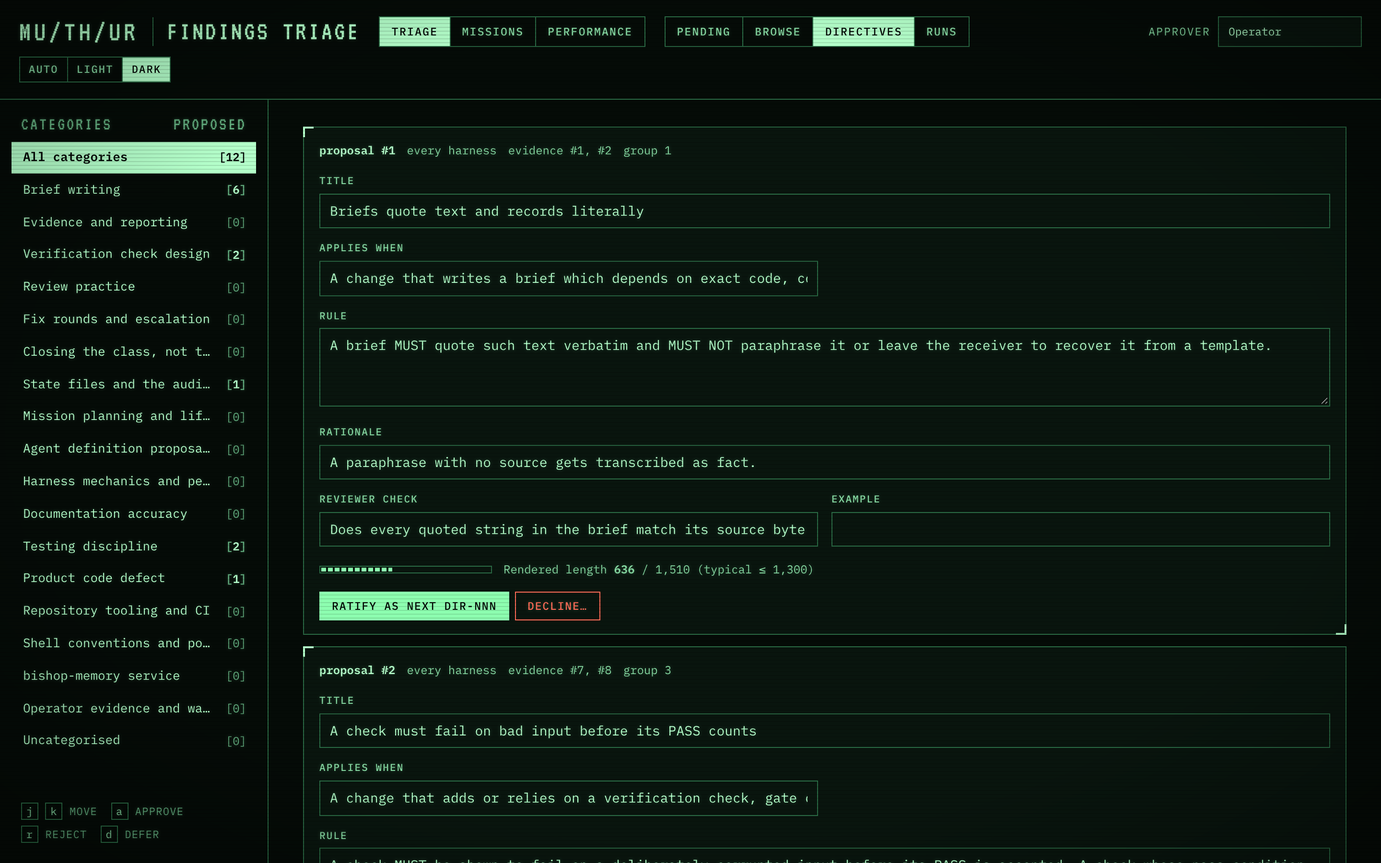
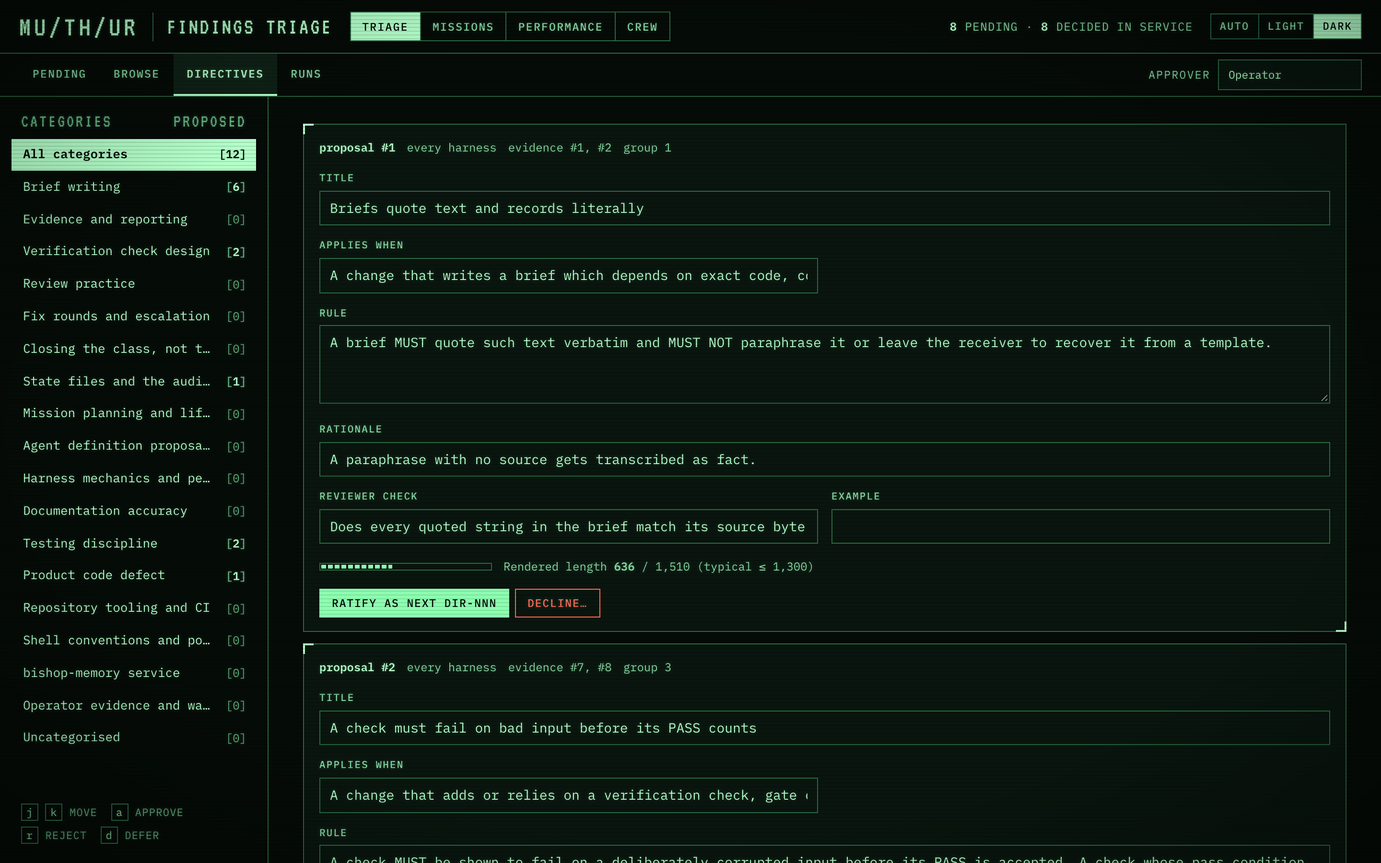
Docs and screenshots after the N/A grade deploy (#14)
Docs, screenshots and the seeder after the operator's N/A grade went live on 2026-10-23. Five commits on top of `main` (`41aa27e`), all reviewed and approved.

## What changed

- **Screenshots refreshed with an N/A demo mission.** `docs/wiki/images/missions-na-light.png` is new: a set-aside mission on the HUD, showing its N/A row, the Now block and the Grade section. The HUD and Performance captures are regenerated to match.
- **capture.js targets sections by heading or tab.** A shot finds its section by heading (and selects the tab first where one is named), not by position. Each shot asserts that its target is visible below the sticky bars, and fails otherwise.
- **Performance N/A badge track widened from 24px to 36px** in `internal/ui/performance.html` (both the desktop grid and the 1100px breakpoint). UI mutants 18/0.
- **Seed-demo exclusion guards.** `scripts/screenshots/seed-demo.py` sets demo missions named under `grades.excluded` aside through the operator's exclusion route, after the grade run. It stops with a message when a key names no demo mission, when the answer is not state `excluded`, or when a call returns non-2xx.
- **Docs brought to the deployed state.** PROGRESS, ROADMAP, the three plan files and the CHANGELOG now record the N/A grade as merged (`41aa27e`) and deployed on 2026-10-23 with `scripts/install-daemon.sh`, with the live schema checked after restart. The override line stays open.
[…]

diff --git a/scripts/screenshots/capture.js b/scripts/screenshots/capture.js
@@ -1,4 +1,4 @@
-// scripts/screenshots/capture.js — capture the review page and the mission HUD for the docs.
+// scripts/screenshots/capture.js — capture the review page, the mission HUD and the performance page for the docs.
 //
 // Usage: node capture.js <base-url> <output-dir>
 //
@@ -31,9 +31,12 @@ const SHOTS = [
   { name: 'missions-light', theme: 'light', viewport: DESKTOP, mission: 'Retry transient provider errors' },
   { name: 'missions-dark', theme: 'dark', viewport: DESKTOP, mission: 'Retry transient provider errors' },
   { name: 'missions-steps-light', theme: 'light', viewport: DESKTOP, mission: 'Retry transient provider errors',
-    after: async (page) => { await scrollToSection(page, 2); } },
+    after: async (page) => { await showMissionSection(page, { tab: 'steps', heading: 'Steps', must: '.steps' }); } },
   { name: 'missions-phone-light', theme: 'light', viewport: PHONE, mission: 'Retry transient provider errors',
-    after: async (page) => { await scrollToSection(page, -1); } },
+    after: async (page) => { await showMissionHead(page); } },
+  // The set-aside mission from demo.json: its Grade section carries the large N/A badge.
+  { name: 'missions-na-light', theme: 'light', viewport: DESKTOP, mission: 'Dry run of the release checklist',
+    after: async (page) => { await showMissionSection(page, { heading: 'Grade', must: '.verdict', text: 'N/A' }); } },
   { name: 'performance-light', theme: 'light', viewport: DESKTOP, page: '/performance' },
   { name: 'performance-dark', theme: 'dark', viewport: DESKTOP, page: '/performance' },
   { name: 'phone-light', theme: 'light', viewport: PHONE, tab: 'pending',
@@ -48,14 +51,60 @@ const SHOTS = [
     } },
 ];
 
-// Scrolls the mission view so section i (-1: the mission header) sits just
-// below the sticky header.
-async function scrollToSection(page, i) {
-  await page.evaluate(i => {
-    const el = i < 0 ? document.querySelector('#view') : document.querySelectorAll('#view section.sec')[i];
-    const header = document.querySelector('header.top').offsetHeight;
-    window.scrollTo(0, el.getBoundingClientRect().top + window.scrollY - header - 12);
-  }, i);
+// The lowest edge, in CSS pixels, of the bars that stick to the top of the
+// viewport: the header, and the mission tab bar where it is sticky (on a phone
+// it is static and is not counted). A heading must sit below this edge to be
+// readable in a shot.
+async function stickyCover(page) {
+  return page.evaluate(() => {
+    const bars = [...document.querySelectorAll('header.top, #mtabs')]
+      .filter(el => getComputedStyle(el).position === 'sticky' && el.getClientRects().length > 0);
+    return Math.max(0, ...bars.map(el => parseFloat(getComputedStyle(el).top) + el.offsetHeight));
+  });
+}
+
+// Makes a mission tab current, when one is given, then scrolls the mission view
+// so the heading of the section named by `heading` sits just below the sticky
+// bars. The section is found by its heading, never by its position: the panes
+// hide the sections of other tabs, so a position can name a hidden one. The shot
+// fails unless the section is visible, its heading and its `must` element are on
+// screen below the sticky bars, and, when `text` is given, the section contains it.
+async function showMissionSection(page, { tab, heading, must, text }) {
+  if (tab) {
+    await page.click(`#mtabs button[data-mt="${tab}"]`);
+    await page.waitForTimeout(300);
+  }
+  const covered = await stickyCover(page);
+  await page.evaluate(({ heading, must, text, covered }) => {
+    const sec = [...document.querySelectorAll('#view section.sec')]
+      .find(s => (s.querySelector('h3')?.childNodes[0]?.textContent || '').trim() === heading);
+    if (!sec || sec.hidden || sec.getClientRects().length === 0) throw new Error(`no visible "${heading}" section`);
+    const h3 = sec.querySelector('h3');
+    window.scrollTo(0, h3.getBoundingClientRect().top + window.scrollY - covered - 12);
+    const below = el => {
+      const r = el.getBoundingClientRect();
+      return r.height > 0 && r.top >= covered && r.top < window.innerHeight;
+    };
+    if (!below(h3)) throw new Error(`the "${heading}" heading is clipped by the sticky bars or is off screen`);
+    const target = must ? sec.querySelector(must) : null;
+    if (must && (!target || !below(target))) throw new Error(`"${heading}" ${must} is not on screen below the sticky bars`);
+    if (text && !sec.innerText.includes(text)) throw new Error(`the "${heading}" section does not contain "${text}"`);
+  }, { heading, must, text, covered });
+  await page.waitForTimeout(300);
+}
+
+// Scrolls the mission view so its head (.head, inside #view) sits just below the
+// sticky bars. Fails unless the head is on screen there afterwards.
+async function showMissionHead(page) {
+  const covered = await stickyCover(page);
+  await page.evaluate(covered => {
+    const view = document.querySelector('#view');
+    const head = view.querySelector('.head');
+    if (!head || head.getClientRects().length === 0) throw new Error('no visible mission head');
+    window.scrollTo(0, view.getBoundingClientRect().top + window.scrollY - covered - 12);
+    const r = head.getBoundingClientRect();
+    if (r.bottom <= covered || r.top >= window.innerHeight) throw new Error('the mission head is not on screen below the sticky bars');
+  }, covered);
   await page.waitForTimeout(300);
 }
 

diff --git a/internal/ui/performance.html b/internal/ui/performance.html
@@ -328,12 +328,12 @@
   .recent .grade.gD { background:var(--warn) } .recent .grade.gE { background:color-mix(in srgb, var(--bad) 55%, var(--panel)); color:var(--fg) } .recent .grade.gF { background:var(--bad) }
   .recent a:hover .grade { outline:1px solid var(--fg); outline-offset:1px }
   .toolbar { margin-bottom:8px }
-  .grow { grid-template-columns:24px 170px 120px 92px minmax(0,1fr); gap:2px 14px; padding:7px 14px; align-items:baseline }
+  .grow { grid-template-columns:36px 170px 120px 92px minmax(0,1fr); gap:2px 14px; padding:7px 14px; align-items:baseline }
   .grow .gm { display:contents } .grow .gm .t { display:none } .grow .gm .m { display:contents; font-size:11.5px; color:var(--muted) }
   .grow .gm .m span { font-size:11.5px; color:var(--muted); white-space:nowrap; overflow:hidden; text-overflow:ellipsis }
   .grow .gs { grid-column:5; grid-row:1 } .grow .gs p { font-size:12.5px; line-height:1.5 } .grow .gs p.clamp { -webkit-line-clamp:1 }
   .grow .acts { margin-top:0 } .grow .acts button { padding:2px 0 }
-  @media (max-width: 1100px) { .bhead { display:none } .brow { grid-template-columns:36px minmax(0,1fr) auto; grid-template-areas:"g n t" "g r r" } .grow { grid-template-columns:24px minmax(0,1fr) } .grow .gm { display:block } .grow .gm .m { display:flex; gap:10px } .grow .gs { grid-column:2; grid-row:auto } }
+  @media (max-width: 1100px) { .bhead { display:none } .brow { grid-template-columns:36px minmax(0,1fr) auto; grid-template-areas:"g n t" "g r r" } .grow { grid-template-columns:36px minmax(0,1fr) } .grow .gm { display:block } .grow .gm .m { display:flex; gap:10px } .grow .gs { grid-column:2; grid-row:auto } }
   .sec > h3 .hid { font:500 11px/1 var(--mono); letter-spacing:.08em; color:var(--warn); border:1px solid currentColor; padding:3px 6px }
   .sec > h3 .gear { order:3; font:500 11px/1 var(--mono); letter-spacing:.1em; text-transform:uppercase; color:var(--muted); background:none; border:1px solid var(--line2); padding:6px 9px; cursor:pointer; text-shadow:inherit }
   .sec > h3 .gear:hover { color:var(--fg); border-color:var(--fg) }

diff --git a/scripts/screenshots/seed-demo.py b/scripts/screenshots/seed-demo.py
@@ -18,6 +18,10 @@ something to show. --db, the throwaway database file, lets the seeder
 backdate the missions and their journal to the dates in demo.json; the API
 stamps both with the current time.
 
+Grades go through the grader's claim and write routes. A demo mission named
+under grades.excluded is then set aside as N/A through the operator's
+exclusion route, so the HUD and the performance page show that state too.
+
 Refuses to seed a database that already holds findings: this is for a
 throwaway instance only (scripts/screenshots/run.sh starts one).
 
@@ -204,6 +208,25 @@ def seed_grades(url, demo, db_path):
     return written
 
 
+def seed_exclusions(url, demo):
+    """Set the demo missions named under grades.excluded aside as N/A, through the
+    operator's exclusion route. Runs after seed_grades, so the grade run never
+    claims these missions. A key that names no demo mission, or an answer other
+    than state 'excluded', stops the run with a message (tc.die). A non-2xx
+    answer stops it too, inside call(). Returns how many exclusions succeeded."""
+    spec = (demo.get("grades") or {}).get("excluded", {})
+    ids = demo.get("_mission_ids", {})
+    set_aside = 0
+    for key, note in spec.items():
+        if key not in ids:
+            tc.die(f"[seed-demo] grades.excluded names '{key}', which is not the key of a demo mission in missions")
+        answer = call(url, "PUT", f"/v1/mission-grades/{ids[key]}/exclusion", {"note": note})
+        if answer.get("state") != "excluded":
+            tc.die(f"[seed-demo] excluding '{key}' answered {answer!r}, not state excluded")
+        set_aside += 1
+    return set_aside
+
+
 def main():
     parser = argparse.ArgumentParser(description=__doc__, formatter_class=argparse.RawDescriptionHelpFormatter)
     parser.add_argument("--url", required=True)
@@ -290,12 +313,14 @@ def main():
              {"state": "accepted", "decided_by": approver})
 
     graded = seed_grades(url, demo, args.db) if args.memory_root else 0
+    set_aside = seed_exclusions(url, demo) if args.memory_root else 0
 
     pending = call(url, "GET", "/v1/triage/pending")
     missions = len(demo.get("missions", [])) if args.memory_root else 0
     print(f"[seed-demo] {missions} missions, {len(ids)} findings, {len(demo['runs'])} runs, "
           f"{pending['pending_findings']} pending recommendations, "
-          f"{len(pending['directive_proposals'])} pending directive drafts, {graded} mission grades")
+          f"{len(pending['directive_proposals'])} pending directive drafts, {graded} mission grades, "
+          f"{set_aside} set aside")
 
 
 if __name__ == "__main__":

diff --git a/README.md b/README.md
@@ -134,10 +134,10 @@ Every finished mission gets a grade from A to F, a short summary of why and sugg
 
 <picture>
   <source media="(prefers-color-scheme: dark)" srcset="docs/wiki/images/missions-dark.png">
-  <img alt="The mission HUD: the mission list with search and filters on the left, and on the right a completed mission with its status, tiles for steps, duration, findings and criteria, and its brief." src="docs/wiki/images/missions-light.png">
+  <img alt="The mission HUD: the mission list on the left, and on the right a completed mission with its status, tiles for steps, duration, findings, criteria, patterns and directives, and its Now block; the Grade heading shows at the foot of the view." src="docs/wiki/images/missions-light.png">
 </picture>
 
-`http://127.0.0.1:8787/missions`, beside `/triage` (and where `/` redirects), shows one mission at a time: the brief with its acceptance criteria ticked from the debrief, a step timeline with each agent's crew role, timing and summary, the linked findings with their triage state, the debrief, and the patterns, directives, crew, service records and journal entries that belong to it. A switch in each page's header links the four pages (Triage, Missions, Performance and Crew), and each finding links across to the other. `/crew` shows per-agent metrics across all missions; see [Mission HUD Guide](docs/wiki/Mission-HUD-Guide.md#the-crew-page).
+`http://127.0.0.1:8787/missions`, beside `/triage` (and where `/` redirects), shows one mission at a time: the brief with its acceptance criteria ticked from the debrief, a step timeline with each agent's crew role, timing and summary, the linked findings with their triage state, the debrief, and the patterns, directives, crew, service records and journal entries that belong to it. A switch in each page's header links to the other pages, and each finding links across to the other. `/crew` shows per-agent metrics across all missions; see [Mission HUD Guide](docs/wiki/Mission-HUD-Guide.md#the-crew-page).
 
 ```bash
 curl -X POST http://127.0.0.1:8787/v1/documents/sync   # import every registered harness's memory tree and agents
@@ -175,7 +175,7 @@ Environment variables, with optional `.env` in the working directory (gitignored
 ## Network and security model
 
 - **Loopback, no keys: open.** The default single-machine install binds `127.0.0.1` and asks for nothing, exactly as before.
-- **API keys.** `memoryd keys add <name>` creates a named key and prints it once; the keys file holds only SHA-256 hashes and is re-read on change, so adding or revoking needs no restart. Once any key exists, every `/v1` route needs one (`Authorization: Bearer <key>` or `X-API-Key`); `/healthz`, the two pages and their icons stay open because they hold no data. The access log names the key behind each request.
+- **API keys.** `memoryd keys add <name>` creates a named key and prints it once; the keys file holds only SHA-256 hashes and is re-read on change, so adding or revoking needs no restart. Once any key exists, every `/v1` route needs one (`Authorization: Bearer <key>` or `X-API-Key`); `/healthz`, the pages and their icons stay open because they hold no data. The access log names the key behind each request.
 - **Required off loopback.** On any other address memoryd refuses to start without a key (unless `BISHOP_ALLOW_NO_AUTH=1`), and revoking the last key refuses every request rather than opening the service.
 - **Transport.** A key over plain HTTP can be read on the wire. On your own network, use built-in TLS with a certificate from your own mkcert CA, which clients trust through `BISHOP_MEMORY_CA_FILE` in `client.env` ([Home Server Setup](docs/wiki/Home-Server-Setup.md)). Alternatives: Tailscale or WireGuard, built-in TLS (`TLS_CERT_FILE`, `TLS_KEY_FILE`), a reverse proxy such as Caddy in front of a loopback-bound memoryd (create a key first: on loopback with none it is open), or an SSH tunnel. memoryd warns at start when it serves plain HTTP on a network address.
 - **Every key has full access.** There are no roles and no rate limiting. What agents can do is still limited by the `mcpd` tool lists (see [MCP tools](#mcp-tools)). `POST /v1/documents/sync` reads any server path a caller names (except `/`), so a key can also pull Markdown and JSONL from any directory the service user can read into search.
@@ -200,7 +200,7 @@ CI (`.github/workflows/ci.yml`) runs build, vet, gofmt, test and test -race on L
 cmd/memoryd         HTTP daemon          internal/api        handlers and router
 cmd/mcpd            MCP adapter          internal/store      SQLite, schema, migrations
 db/schema.sql       schema               internal/importer   Markdown → FTS5
-db/finding-categories.json  taxonomy     internal/ui         the four pages: /triage, /missions, /performance, /crew
+db/finding-categories.json  taxonomy     internal/ui         the pages: /triage, /missions, /performance, /crew
 scripts/            installers, reconciler, triage, wiki     .claude/agents, .claude/skills   the triage agents
                                                              .opencode/agents                 their OpenCode twins
 docs/               roadmap, progress, plans   docs/wiki/    user and developer pages (published to the wiki)

diff --git a/docs/wiki/Mission-Grading.md b/docs/wiki/Mission-Grading.md
@@ -4,7 +4,7 @@ Every finished mission gets a grade from **A** to **F**, a short summary of why,
 
 Grading is the third triage job, after classify and process. It runs nightly at 21:40 and can be run by hand. It works from the database alone: the mission's brief, debrief, steps, findings and agent notes as bishop-memory already holds them. It reads no files and makes no changes to a harness.
 
-![Harness performance, light theme](images/performance-light.png)
+![Harness performance, light theme: the average grade, the set-aside tile counting one N/A, and the demo harness card with its N/A count](images/performance-light.png)
 
 ## What the grades mean
 
@@ -27,7 +27,7 @@ A mission whose record is too thin to judge (no debrief and no steps) gets **not
 
 **Mission HUD.** Each graded mission shows its letter in the mission list and in its header, and a **Grade** section under the tiles: the letter, **Why** (the summary), **Suggestions**, and the counts the grade rests on. A mission the operator has set aside shows **N/A** in place of a letter: in the list its note is the tooltip, and in the Grade section the note is under **Why**. The list has a grade filter, including **Ungraded** and **N/A**.
 
-![A mission's grade on the HUD, dark theme](images/missions-dark.png)
+![The mission HUD in the dark theme, with the Grade heading at the foot of the view](images/missions-dark.png)
 
 **Performance page** (`/performance`, the third link in the page switch):
 
@@ -72,6 +72,8 @@ A run with nothing waiting exits at once without starting an agent. Each run mak
 - An excluded (N/A) mission is never claimed. A run that names one skips it with a log line and leaves it alone; `DELETE /v1/mission-grades/<id>` answers 409 for it. Lift the exclusion first, and the nightly grader can claim the mission again.
 
 ## Setting a mission aside (N/A)
+
+![The mission HUD with a set-aside mission selected: its list row carries N/A, the Now block sits above the Grade section, and the Grade section shows a large N/A badge with the note under Why](images/missions-na-light.png)
 
 Only the operator sets this. No MCP tool reaches these routes. Both are on the HTTP API under `/v1/mission-grades/:missionID/exclusion`; the operator's side of the service is in [Developer: HTTP API](Developer-HTTP-API#mission-grades-operator-na).
 
@@ -121,7 +123,7 @@ bin/memoryd backup data/memory-before-na.db
 sqlite3 data/memory-before-na.db ".tables"
 ```
 
-Run `bin/memoryd backup` from the checkout, as above. `DB_PATH` is relative, so a run from any other directory (for example, with the full path to the binary) opens and creates an empty `data/memory.db` there, because `store.Open` creates the database file on open (`internal/store/sqlite.go:39-43`). The backup is then empty and the stray file must be removed. The `.tables` check catches the empty copy; do not restart on it.
+Run `bin/memoryd backup` from the checkout, as above. `DB_PATH` is relative, so a run from any other directory (for example, with the full path to the binary) opens and creates an empty `data/memory.db` there, because `store.Open` creates the database file on open: its `db.Ping` call forces the driver to create the file (`internal/store/sqlite.go:66-71`). The backup is then empty and the stray file must be removed. The `.tables` check catches the empty copy; do not restart on it.
 
 On Linux the database is in the service user's StateDirectory (`scripts/bishop-memory.service:68`), so run the backup as that user and keep the target inside that directory. The unit's own comment uses `sudo -u bishop-memory env DB_PATH=... <bin>/memoryd keys add` (`scripts/bishop-memory.service:73`), and `scripts/install.sh:176` runs the same pattern with `runuser -u`. `<install root>` is the directory the unit runs `bin/memoryd` from (`scripts/bishop-memory.service:54`):
 
@@ -134,7 +136,7 @@ sudo -u bishop-memory sqlite3 /var/lib/bishop-memory/memory-before-na.db ".table
 
 If the `.tables` line prints nothing, the copy is empty. Do not restart until it lists `mission_grades`.
 
-The migration runs only when the operator restarts memoryd, so nothing changes until then.
+The migration runs only when the operator restarts memoryd, so nothing changes until then. On a Mac, the redeploy is `scripts/install-daemon.sh`: it builds `bin/memoryd`, stages a copy into the exec directory that launchd runs (`scripts/install-daemon.sh:260-264`, `:277-282`), and replaces the launchd job with a bootout and a bootstrap (`scripts/install-daemon.sh:315-331`). The migration runs when that new process starts, in `cmd/memoryd/main.go:121`. Take the backup above first, so that a bad redeploy can be rolled back from it.
 
 ## Settings
 

diff --git a/docs/PROGRESS.md b/docs/PROGRESS.md
@@ -4,7 +4,7 @@ The follow-along tracker for [ROADMAP.md](ROADMAP.md). The roadmap says what is
 outstanding; this file shows the same work by workstream, one checkbox per
 item, with evidence for what is done and a link to the plan section.
 
-Last updated: 2026-10-22, on branch `feat/grade-excluded`, cut from `cbf229e`, with the operator N/A grade (PR #13). PR #12 (squash-merge `7fc76ba`, "Triage runner on OpenCode v2") is on `main`, and its items are in Triage & grading. Before it, against `fc38064`: harness portability phase 1 is on `main` through PR #8 (`8437f32`). The reconciler fixes are on `main` through PR #9 (`1c4def9`), and the `[flight-recorder]` summary fix and the journal cap exit code are on `main` through PR #11 (`2cada81`). The live memoryd was redeployed on 2026-10-21 at 06:35 UTC with the flight-recorder paging (operator-reported), and a full journal reconcile was run on it the same day. Live items the repository cannot confirm stay unticked. The operator N/A line under Memory insight is ticked on branch `feat/grade-excluded` (mission-20261022-05, PR #13); the override line stays open.
+Last updated: 2026-10-23, against `main` at `41aa27e`. The operator N/A grade is on `main` through PR #13 (squash-merge `41aa27e`, mission-20261022-05) and is deployed to the live service: on 2026-10-23 the live memoryd was redeployed with `scripts/install-daemon.sh` at the operator's request, and the `mission_grades` rebuild that admits `excluded` ran on that start; the live schema was checked after restart (it carries the `excluded` CHECK and `state <> 'excluded' OR grade IS NULL`) and /healthz returned ok (mission-20261022-05 follow-up). PR #12 (squash-merge `7fc76ba`, "Triage runner on OpenCode v2") is on `main`, and its items are in Triage & grading. Before it, against `fc38064`: harness portability phase 1 is on `main` through PR #8 (`8437f32`). The reconciler fixes are on `main` through PR #9 (`1c4def9`), and the `[flight-recorder]` summary fix and the journal cap exit code are on `main` through PR #11 (`2cada81`). The live memoryd was redeployed on 2026-10-21 at 06:35 UTC with the flight-recorder paging (operator-reported), and a full journal reconcile was run on it the same day. Live items the repository cannot confirm stay unticked. The operator N/A line under Memory insight is ticked, with its evidence on `main` (PR #13) and its deployment (deployed 2026-10-23 with `scripts/install-daemon.sh`; live schema checked after restart, mission-20261022-05 follow-up); the override line stays open.
 
 ## Summary
 
@@ -102,7 +102,7 @@ Plan: [plans/MEMORY-INSIGHT-PLAN.md](plans/MEMORY-INSIGHT-PLAN.md)
 - [ ] Phase 2: trends on `/performance` (partial: the grade trend shipped in `c83fdbf`; fix rounds and findings per week have not been built) ([§4](plans/MEMORY-INSIGHT-PLAN.md#4-phase-2--cross-mission-pages-and-operator-actions))
 - [ ] Phase 2: global search across missions, findings, patterns and directives ([§4](plans/MEMORY-INSIGHT-PLAN.md#4-phase-2--cross-mission-pages-and-operator-actions))
 - [ ] Phase 2: filters in the URL (unverified: not inspected) ([§4](plans/MEMORY-INSIGHT-PLAN.md#4-phase-2--cross-mission-pages-and-operator-actions))
-- [x] Phase 2: operator N/A (excluded) state for test missions that should not count, with its `PUT` and `DELETE` routes under `/v1/mission-grades/:missionID/exclusion`, the HUD and Performance labels, and the grader skip — PR #13 (mission-20261022-05) ([§4](plans/MEMORY-INSIGHT-PLAN.md#4-phase-2--cross-mission-pages-and-operator-actions))
+- [x] Phase 2: operator N/A (excluded) state for test missions that should not count, with its `PUT` and `DELETE` routes under `/v1/mission-grades/:missionID/exclusion`, the HUD and Performance labels, and the grader skip — PR #13, squash-merge `41aa27e` (mission-20261022-05); deployed 2026-10-23 with `scripts/install-daemon.sh` at the operator's request, with the `mission_grades` rebuild on that restart; live schema checked after restart (mission-20261022-05 follow-up) ([§4](plans/MEMORY-INSIGHT-PLAN.md#4-phase-2--cross-mission-pages-and-operator-actions))
 - [ ] Phase 2: operator agree or override of a grade, with a note, and the `mission_grades` operator columns (not started) ([§4](plans/MEMORY-INSIGHT-PLAN.md#4-phase-2--cross-mission-pages-and-operator-actions))
 - [ ] Phase 2: park or close a stale mission from the HUD (unverified: not inspected in the UI) ([§4](plans/MEMORY-INSIGHT-PLAN.md#4-phase-2--cross-mission-pages-and-operator-actions))
 - [ ] Phase 2: operator notes on a mission, `mission_notes` ([§4](plans/MEMORY-INSIGHT-PLAN.md#4-phase-2--cross-mission-pages-and-operator-actions))

diff --git a/docs/ROADMAP.md b/docs/ROADMAP.md
@@ -13,8 +13,10 @@ confirm before working on it), **unverified** (the repository cannot confirm
 it; a run or a harness-side check is needed), **accepted** (decided as it
 stands, with no fix planned).
 
-Last checked against the code: 2026-10-20 (status audit of `main` at
-`1c4def9` and the live database). Statuses changed on 2026-10-21 by the live
+Last checked against the code: 2026-10-23 (`main` at `41aa27e`, the N/A grade
+and its live deploy; statuses changed under Shipped and the follow-ups before
+Findings triage). The 2026-10-20 audit of `main` at `1c4def9` and the live
+database still holds for the items not named here. Statuses changed on 2026-10-21 by the live
 redeploy and by operator decisions; they are recorded under Reconciler,
 Harness portability and Shipped. Statuses changed on 2026-10-22 through PR #12
 (squash-merge `7fc76ba`, the OpenCode v2 triage runner); they are recorded under
@@ -82,6 +84,20 @@ from [plan §8](plans/MISSION-HUD-PLAN.md#8-outstanding):
   the live database; the running memoryd process (the binary's sha1 matches
   `b15baa93`; the process has not been inspected); and the closure of triage
   run 89 on the live database. Status: unverified.
+
+**Follow-ups from the N/A grade and its review (mission-20261022-05, 2026-10-23).**
+Each is a one-line item; the detail is in the mission DEBRIEF and FINDINGS
+(2026-10-23 entries), in the harness repository.
+
+- `cmd/mcpd/triage.go:176`: the `grade_write` description, and the skip reason for an excluded mission. Status: open.
+- `internal/api/grades.go:763`: the `RowsAffected` error is discarded. Status: open, low.
+- `internal/store/mission_grades.go`: the rebuild's count and FK-rise guards are untested (`:134-136`, `:141-144`). Status: open.
+- `internal/store/triage_runs.go:82`: the FK restore error is discarded. Status: open, low.
+- `scripts/triage-run.sh`: a run with no `--mission` and no `python3` fails silently under `set -e`. Status: open.
+- The 1-second real-binary tests: the entry under Findings triage above. Status: open, low.
+- `scripts/mutate.py`: the shared-text check reads only the first failure per mirror pair. Status: open; the FINDINGS entry is proposed, not yet ratified.
+- `scripts/check_mutants.py`: a `--reanchor` mode. Status: open; the FINDINGS entry is proposed, not yet ratified.
+- Screenshot negative control: the new `capture.js` assertions are shown to fail only by hand, not in the pipeline (review W2, step A). Status: open.
 
 ## Findings triage
 
@@ -406,7 +422,11 @@ except the operational ones, which name their evidence instead.
 - Operator N/A for missions that should not count: `mission_grades.state`
   admits `excluded`, set and lifted by the operator's `PUT` and `DELETE` on
   `/v1/mission-grades/:missionID/exclusion`; the grader skips such missions;
-  N/A on the HUD and the Performance page (PR #13, mission-20261022-05).
+  N/A on the HUD and the Performance page (PR #13, squash-merge `41aa27e`,
+  mission-20261022-05). Deployed 2026-10-23 with `scripts/install-daemon.sh`
+  at the operator's request; the `mission_grades` rebuild ran on that start,
+  and the live schema was checked after restart (mission-20261022-05
+  follow-up). The override with a note is still open, under Memory insight.
 - Mission grading: `mission_grades`, the `mission-grader` agent, the
   `/performance` page, `make triage-grade` (c83fdbf, merged in ae14630).
   Grader packets as readable text (5538d6d).

diff --git a/docs/plans/MEMORY-INSIGHT-PLAN.md b/docs/plans/MEMORY-INSIGHT-PLAN.md
@@ -150,7 +150,7 @@ All pages stay single embedded HTML files with no build step, beside
     `mission_grades.operator_grade, operator_note, reviewed_by, reviewed_at`;
     the agreement rate is the grader's calibration signal, as accepted and
     declined recommendations are the processor's;
-    - an N/A (`excluded`) state, or an override with a note, for a test mission that should not count *[shipped: PR #13, mission-20261022-05]*: settable by the operator only, labelled N/A on the HUD and the Performance page. The N/A state and its operator routes (`PUT` and `DELETE /v1/mission-grades/:missionID/exclusion`) are built; the override with a note is not started. The workaround of setting `mission_grades.state = 'insufficient'` and `grade = NULL` directly in the database is superseded by the route. Evidence for the need, from the code before the branch: averages, the grade distribution and the trend count only `state = 'graded'` (`internal/api/grades.go`, `performanceHandler`); the nightly claim does not pick up `insufficient` or `skipped` rows (`internal/api/grades.go`, claim query); the UI labelled such a row "not enough evidence" (`internal/ui/missions.html:687`, `internal/ui/performance.html:540`, at HEAD), not N/A; and the CHECK allowed only `pending`, `graded`, `insufficient` and `skipped` (`db/schema.sql`, `mission_grades`).
+    - an N/A (`excluded`) state, or an override with a note, for a test mission that should not count *[shipped: PR #13, deployed 2026-10-23]*: settable by the operator only, labelled N/A on the HUD and the Performance page. The N/A state and its operator routes (`PUT` and `DELETE /v1/mission-grades/:missionID/exclusion`) are built; the override with a note is not started. The workaround of setting `mission_grades.state = 'insufficient'` and `grade = NULL` directly in the database is superseded by the route. Evidence for the need, from the code before the branch: averages, the grade distribution and the trend count only `state = 'graded'` (`internal/api/grades.go`, `performanceHandler`); the nightly claim does not pick up `insufficient` or `skipped` rows (`internal/api/grades.go`, claim query); the UI labelled such a row "not enough evidence" (`internal/ui/missions.html:687`, `internal/ui/performance.html:540`, at HEAD), not N/A; and the CHECK allowed only `pending`, `graded`, `insufficient` and `skipped` (`db/schema.sql`, `mission_grades`).
   - park or close a stale mission *[unverified in the UI]* (a `PATCH` with a journal note);
   - an operator note on a mission *[not started]*: `mission_notes(id, mission_id, author,
     note, created_at)`.

diff --git a/docs/wiki/Developer-Testing-and-CI.md b/docs/wiki/Developer-Testing-and-CI.md
@@ -31,7 +31,7 @@ go test -race ./... -count=1
 | `cmd/mcpd` | `main_test.go` | Dot-segment ids are refused before any request; every tool's method and path matches exactly one registered route |
 | `cmd/memoryd` | `main_test.go` | SIGTERM shuts down gracefully (subprocess test under `t.TempDir()`) |
 | `internal/importer` | `mission_test.go` | Mission documents get `mission_id`, every document its `harness`; an unchanged file is re-tagged and its stale kind corrected, and a later sync with no harness keeps the stored one; a root pointed at a repository skips its `.claude` and `.git` trees; `SyncMission` imports only the named mission's files and refuses an id that is not one path segment; `SyncAgents` makes one crew row per name, and a second harness defining the same agent updates it; `CrewName` normalises `@Hicks`, `hicks`, `harness:hicks` |
-| `internal/ui` | `ui_test.go` | Four pages (crew, missions, performance, triage) are served as HTML, link both icons, and carry the Triage / Missions switch. TestEmbeddedScriptsParse runs `node --check` on every inline script block (skips if node unavailable). TestSharedShellIdentical verifies the CSS shell block is identical across pages. Source-text tests verify page structure (filters labelled, findings statuses escaped, debrief sections present, reviews table present, crew metrics rendered, performance modal keyboard listener present, triage model truncates before escaping) — these check the source only and cannot run or execute scripts. |
+| `internal/ui` | `ui_test.go` | Each page is served as HTML and carries links to the other pages (`TestPagesLinkEachOther`); each links both icons (`TestPageLinksBothIcons`). TestEmbeddedScriptsParse runs `node --check` on every inline script block (skips if node unavailable). TestSharedShellIdentical verifies the CSS shell block is identical across pages. Source-text tests verify page structure (filters labelled, findings statuses escaped, debrief sections present, reviews table present, crew metrics rendered, performance modal keyboard listener present, triage model truncates before escaping) — these check the source only and cannot run or execute scripts. |
 | `internal/importer`, `internal/middleware`, `internal/config` | — | Import kinds and hashing, recovery and request id, loopback detection |
 
 ## Conventions

diff --git a/docs/wiki/User-Guide.md b/docs/wiki/User-Guide.md
@@ -107,9 +107,9 @@ On OpenCode instead (cheaper models, your own OpenCode config and key): skip the
 
 ## 6. Following a mission
 
-The mission HUD at `http://127.0.0.1:8787/missions` (also where `/` lands) shows one mission at a time with tabbed detail sections: the brief with its acceptance criteria ticked from the debrief; a steps tab showing the timeline with each agent's crew role, start time, duration and summary and the review verdicts; findings with their triage state; the debrief (split across deliverables, agent mistakes, lessons and full debrief sections); and patterns, directives, crew and service records. The crew page shows per-agent metrics (steps, approval rate, re-reviews, mistakes, average grade) as a sortable, filterable, paginated leaderboard. A **Triage / Missions** switch in the header moves between the HUD and the review page.
+The mission HUD at `http://127.0.0.1:8787/missions` (also where `/` lands) shows one mission at a time with tabbed detail sections: the brief with its acceptance criteria ticked from the debrief; a steps tab showing the timeline with each agent's crew role, start time, duration and summary and the review verdicts; findings with their triage state; the debrief (split across deliverables, agent mistakes, lessons and full debrief sections); and patterns, directives, crew and service records. The crew page shows per-agent metrics (steps, approval rate, re-reviews, mistakes, average grade) as a sortable, filterable, paginated leaderboard. A page switch in the header moves between the HUD, the review page and the other pages (`internal/ui/missions.html:349`, `internal/ui/triage.html:314`, `internal/ui/performance.html:398`, `internal/ui/crew.html:200`).
 
-![The mission HUD](images/missions-light.png)
+![The mission HUD, with the page switch across the top, the mission list, and a completed mission's header, tabs, tiles and Now block, with the Grade heading at the foot of the view](images/missions-light.png)
 
 The brief, progress and debrief reach it as documents. Once the harness is registered (a reconcile with `--harness` does that), sync them:
 

diff --git a/docs/wiki/Mission-HUD-Guide.md b/docs/wiki/Mission-HUD-Guide.md
@@ -4,11 +4,11 @@ The mission HUD at `http://127.0.0.1:8787/missions` shows the whole history of a
 
 The page only reads. Nothing on it changes a mission, a step or a finding; decisions on findings stay on the [review page](Review-Page-Guide).
 
-![The mission HUD: the mission list on the left, and on the right a completed mission with its header, tiles and brief](images/missions-light.png)
+![The mission HUD: the page switch across the top, the mission list on the left, and on the right a completed mission with its header, tabs, tiles and the Now block, with the Grade heading at the foot of the view](images/missions-light.png)
 
 ## Moving between Triage and Missions
 
-Both pages carry a **Triage / Missions** switch in the header, and they share the theme setting.
+Every page carries the page switch in its header (`internal/ui/missions.html:349`, `internal/ui/triage.html:314`, `internal/ui/performance.html:398` and `internal/ui/crew.html:200`). The pages share the theme setting.
 
 - A finding on `/missions` has an **Open in triage →** link. It goes to `/triage?finding=<id>`, which opens the Browse tab on just that finding, with a **show all** link back to the full list. `?finding=` also takes a comma-separated list, `?finding=12,13`.
 - A finding card on `/triage` shows its mission id when it has one. The id links to `/missions#<mission id>`.

diff --git a/docs/wiki/Review-Page-Guide.md b/docs/wiki/Review-Page-Guide.md
@@ -4,7 +4,7 @@ The review page at `http://127.0.0.1:8787/triage` is where findings get decided 
 
 ## Triage and Missions
 
-The **Triage / Missions** switch in the header moves between this page and the [mission HUD](Mission-HUD-Guide) at `/missions`. The two pages share the theme setting.
+The page switch in the header moves between this page and the other pages (`internal/ui/triage.html:314`; the same switch is at `internal/ui/missions.html:349`, `internal/ui/performance.html:398` and `internal/ui/crew.html:200`). The [mission HUD](Mission-HUD-Guide) is the page the switch reaches at `/missions`. The pages share the theme setting.
 
 - A finding card that has a mission shows the mission id; it links to `/missions#<mission id>`, that mission on the HUD.
 - `/triage?finding=<id>` (or `?finding=12,13`) opens the Browse tab on just those findings, with a **show all** link back to the full list. The HUD's **Open in triage →** links use it.
